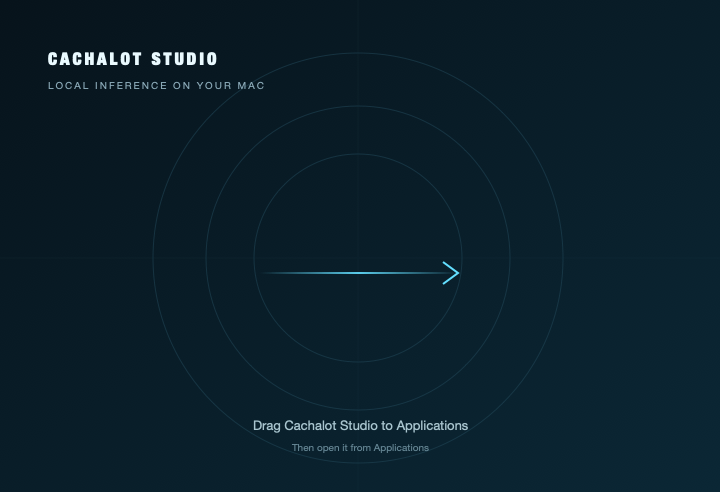
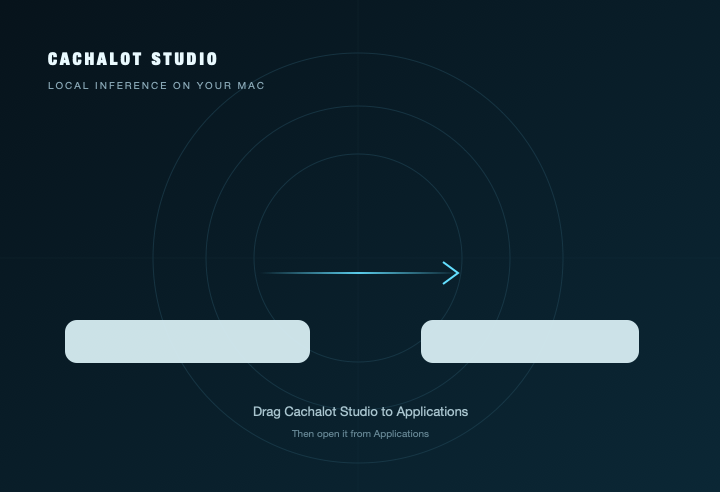
fix: polish macOS installer layout

Changed region(s): [[0.0917, 0.6402, 0.4278, 0.7622], [0.5806, 0.6402, 0.8861, 0.7622], [0.3361, 0.8232, 0.6722, 0.9146]]

diff --git a/CHANGELOG.md b/CHANGELOG.md
@@ -1,6 +1,6 @@
 # Changelog
 
-## [0.1.0] - 2026-09-28
+## [0.1.0] - 2026-09-29
 
 - Native Apple Silicon macOS app with Cockpit, Chat, API, Doctor, Settings, and command palette.
 - Local Cachalot connection with optional API key, health checks, live runtime metrics, streaming responses, reasoning display, and generation stop.
